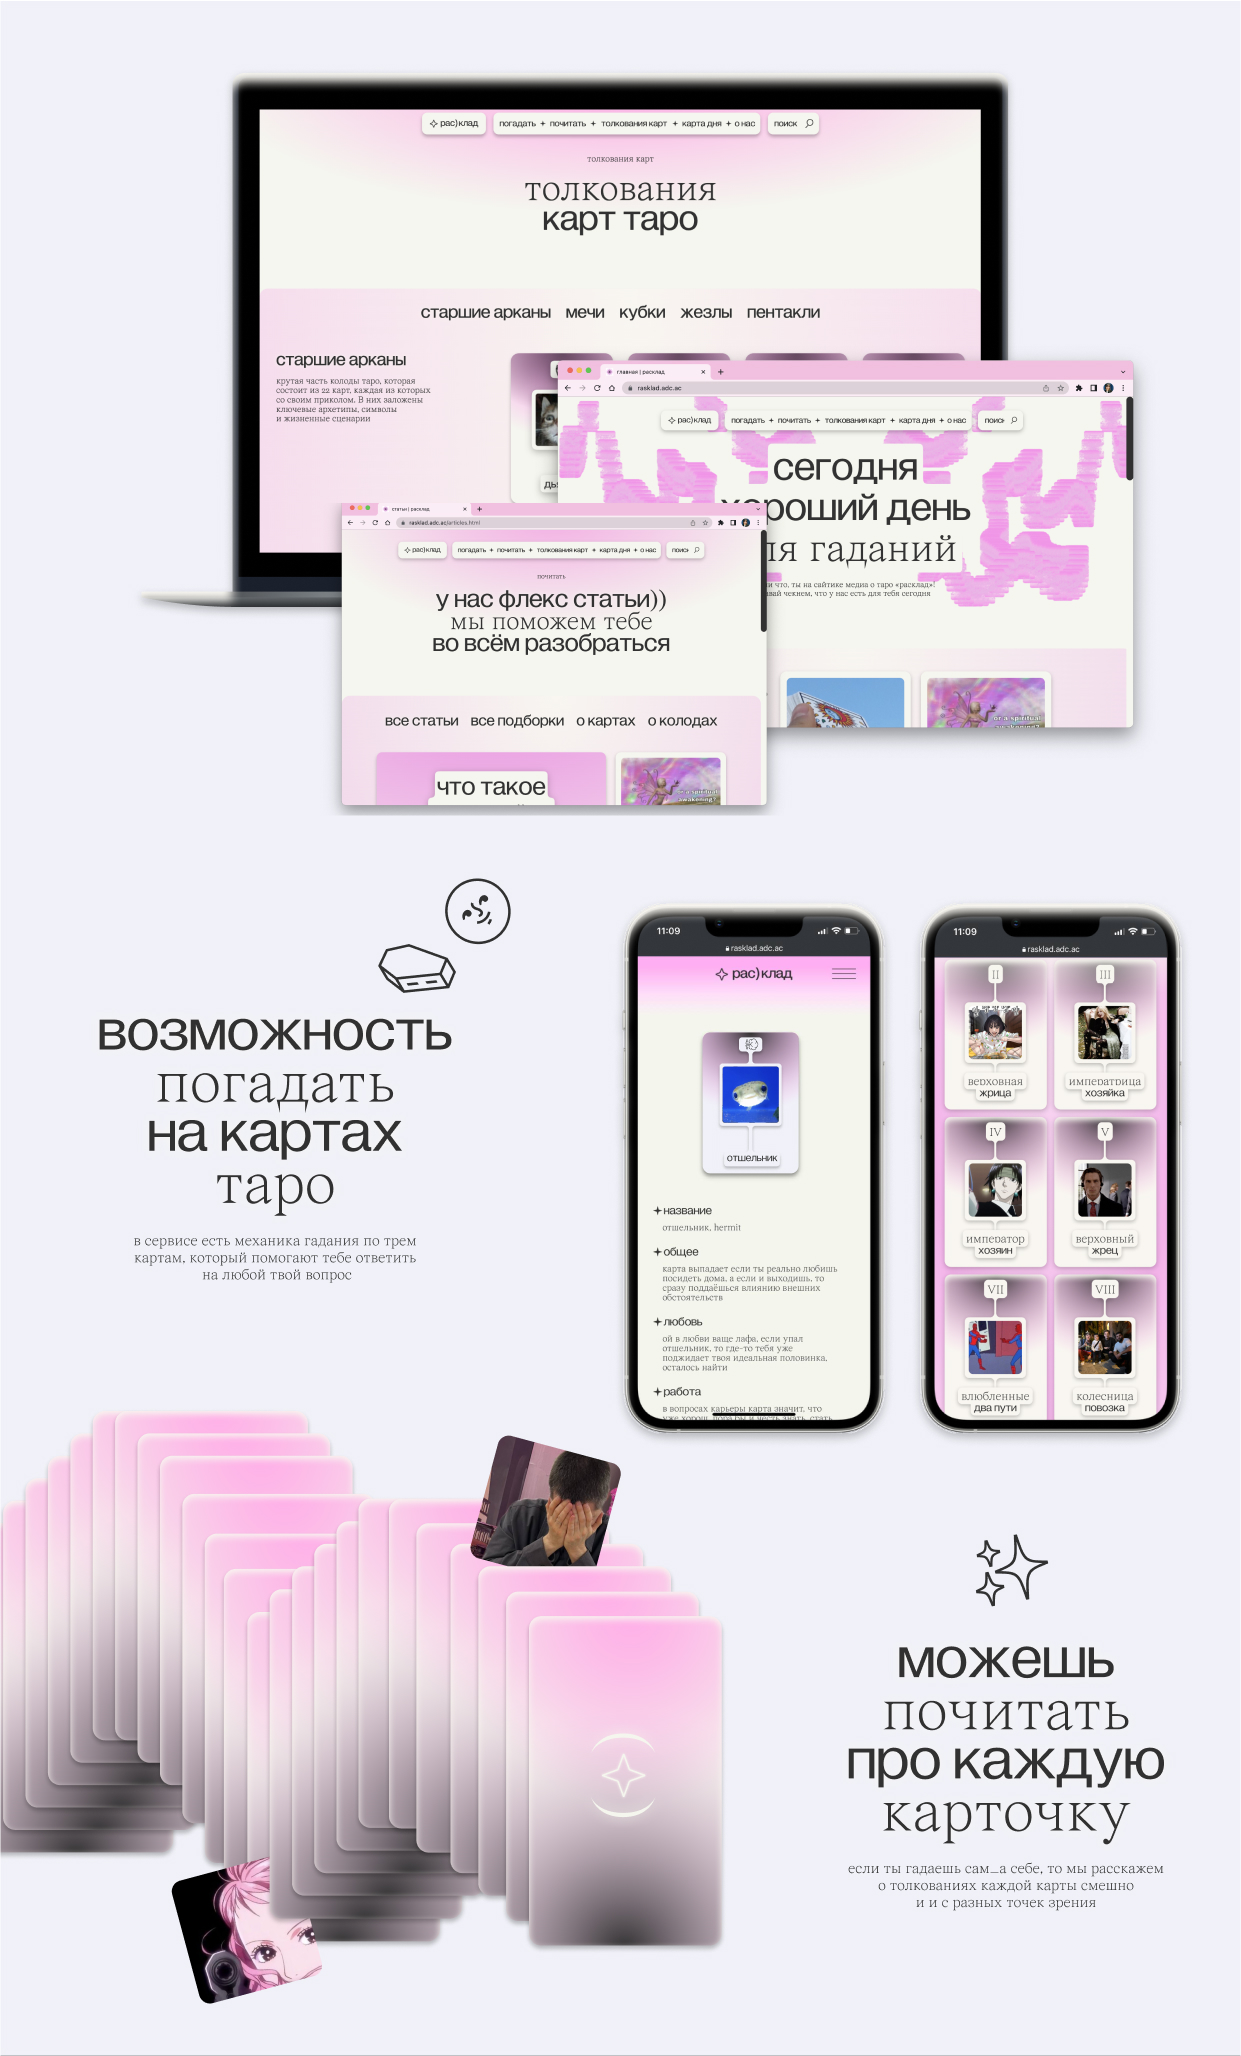
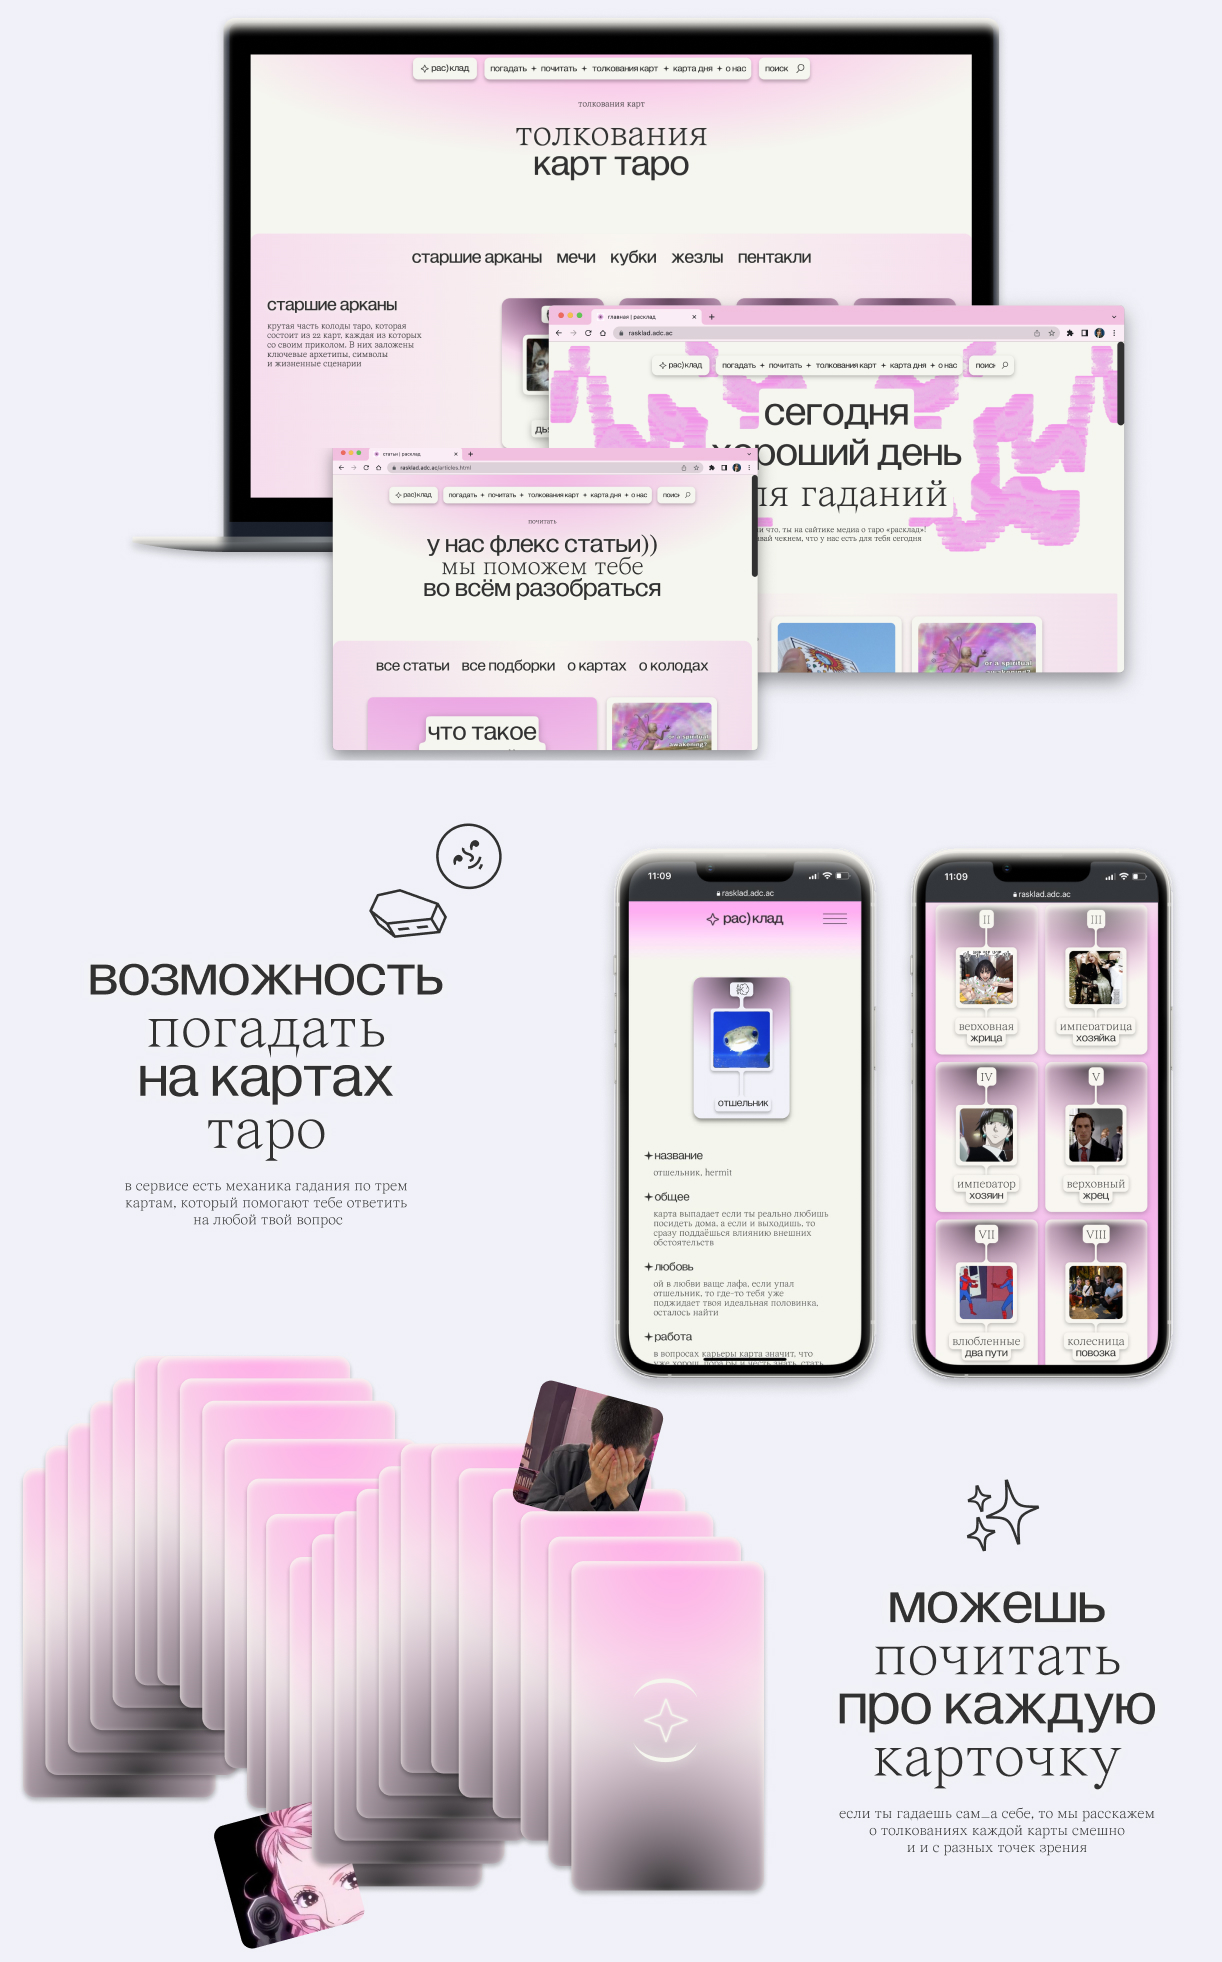
ну расклад

Changed region(s): [[0.0622, 0.0, 0.9329, 0.6218], [0.0, 0.4353, 0.964, 0.9949], [0.6841, 0.7462, 0.964, 0.9638]]

diff --git a/app/assets/stylesheets/components.scss b/app/assets/stylesheets/components.scss
@@ -2,7 +2,7 @@
 .h3,
 .W_WorkPics .A_WorkToggle {
   font-size: 24px;
-  letter-spacing: -0.5px;
+  color: var(--black);
   &.beige {
     color: var(--base);
   }
@@ -10,13 +10,15 @@
 .h2 {
   font-size: 55px;
   letter-spacing: -1.5px;
+  color: var(--black);
 }
 .p {
   font-size: 18px;
-  letter-spacing: -0.3px;
+  color: var(--black);
 }
 .A_UnderlinedLink {
   text-decoration: underline;
+  color: var(--black);
 }
 
 //хед фут
@@ -1231,22 +1233,47 @@
       flex-direction: column;
       justify-content: flex-start;
       .S_RaskladBody {
-        padding-top: 60px;
+        padding-top: 40px;
         display: flex;
         flex-direction: column;
         justify-content: flex-start;
-        gap: 10px;
-        margin-bottom: 40px;
+        gap: 5px;
+        margin-bottom: 200px;
+
+        .C_List {
+          margin-top: 20px;
+          display: flex;
+          flex-direction: column;
+          gap: 20px;
+
+          height: auto;
+          .A_List {
+            display: flex;
+            flex-direction: row;
+            justify-content: flex-start;
+            align-items: top;
+            .Q_Line {
+              margin-top: 5px;
+              height: 1px;
+              width: 200px;
+              background-color: var(--grey);
+            }
+          }
+        }
 
         .h2.Grey {
           color: var(--grey);
+          margin-top: 20px;
         }
         .h3 {
-          margin-bottom: 30px;
+          // margin-bottom: 30px;
         }
         .A_CaseImages {
           width: 100%;
           height: auto;
+          margin-top: 20px;
+          margin-bottom: 100px;
+          border-radius: 20px;
         }
 
         .C_ColumnsRaskladBody {
